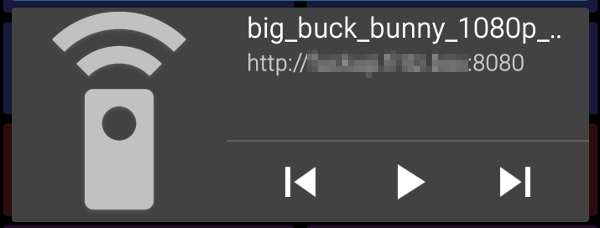
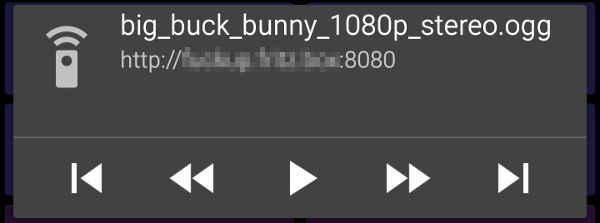
use range sliders for position and volume; only one table needed; fix delay display bug; updated screenshots

diff --git a/webui-page/webui.js b/webui-page/webui.js
@@ -2,6 +2,8 @@ var DEBUG = false;
 var loaded = false;
 var metadata = null;
 var filename = null;
+var blockPosSlider = false;
+var blockVolSlider = false;
 
 function send(command, param){
   DEBUG && console.log('Sending command: ' + command + ' - param: ' + param);
@@ -66,29 +68,72 @@ function getTitle() {
   }
 }
 
+function setPosSlider(duration, position) {
+  var slider = document.getElementById("mediaPosition");
+  var pos = document.getElementById("position");
+  slider.max = duration;
+  if (!window.blockPosSlider) {
+    slider.value = position;
+  }
+  pos.innerHTML = format_time(slider.value);
+}
+
+document.getElementById("mediaPosition").onchange = function() {
+  var slider = document.getElementById("mediaPosition");
+  send("set_position", slider.value);
+  window.blockPosSlider = false;
+}
+
+document.getElementById("mediaPosition").oninput = function() {
+  window.blockPosSlider = true;
+  var slider = document.getElementById("mediaPosition");
+  var pos = document.getElementById("position");
+  pos.innerHTML = format_time(slider.value);
+}
+
+function setVolumeSlider(volume) {
+  var slider = document.getElementById("mediaVolume");
+  var vol = document.getElementById("volume");
+  if (!window.blockVolSlider) {
+    slider.value = volume;
+  }
+  vol.innerHTML = slider.value + "%";
+}
+
+document.getElementById("mediaVolume").onchange = function() {
+  var slider = document.getElementById("mediaVolume");
+  send("set_volume", slider.value);
+  window.blockVolSlider = false;
+}
+
+document.getElementById("mediaVolume").oninput = function() {
+  window.blockVolSlider = true;
+  var slider = document.getElementById("mediaVolume");
+  var vol = document.getElementById("volume");
+  vol.innerHTML = slider.value + "%";
+}
+
 function status(bottom = false){
   var request = new XMLHttpRequest();
   request.open("get", "/status");
 
   request.onreadystatechange = function(){
-    if (request.readyState == 4 && request.status == 200){
+    if (request.readyState == 4 && request.status == 200) {
       var json = JSON.parse(request.responseText)
       window.metadata = json['metadata'];
       window.filename = json['file'];
       document.getElementById("filename").innerHTML = getTitle();
       document.getElementById("duration").innerHTML =
-        format_time(json['duration']);
-      document.getElementById("position").innerHTML =
-        format_time(json['position']);
+        '&nbsp;'+ format_time(json['duration']);
       document.getElementById("remaining").innerHTML =
-        format_time(json['remaining']);
+        "-" + format_time(json['remaining']);
       document.getElementById("sub-delay").innerHTML =
-        json['sub-delay'] * 1000 + ' ms';
+        json['sub-delay'];
       document.getElementById("audio-delay").innerHTML =
-        json['audio-delay'] * 1000 + ' ms';
-      document.getElementById("volume").innerHTML =
-        Math.floor(json['volume']) + "%";
+        json['audio-delay'];
       setPlayPause(json['pause']);
+      setPosSlider(json['duration'], json['position']);
+      setVolumeSlider(json['volume']);
       if ('mediaSession' in navigator) {
         setupNotification();
       }
@@ -154,4 +199,4 @@ function setupNotification() {
 }
 
 status();
-setInterval(function(){status();}, 2000);
+setInterval(function(){status();}, 1000);

diff --git a/webui-page/index.html b/webui-page/index.html
@@ -16,23 +16,8 @@
   </head>
   <body>
     <h1 id="filename">Title</h1>
-    <div class="table-one">
-      <table>
-        <tr>
-          <td>Duration:</td>
-          <td id="duration"></td>
-        </tr>
-        <tr>
-          <td>Position:</td>
-          <td id="position"></td>
-        </tr>
-        <tr>
-          <td>Remaining:</td>
-          <td id="remaining"></td>
-        </tr>
-      </table>
-    </div>
-    <div class="table-two">
+
+    <div class="table">
       <table class="two">
         <tr>
           <td>Sub-delay:</td>
@@ -42,11 +27,25 @@
           <td>Audio-delay:</td>
           <td id="audio-delay"></td>
         </tr>
-        <tr>
-          <td>Volume:</td>
-          <td id="volume"></td>
-        </tr>
       </table>
+    </div>
+
+    <div class="slidecontainer">
+      <input type="range" min="0" max="0" value="0" step="any" class="slider" id="mediaPosition">
+      <div class="sliderInfoContainer">
+        <div class="left" id="remaining"></div>
+        <div class="sliderCenter" id="position"></div>
+        <div class="right" id="duration"></div>
+      </div>
+    </div>
+
+    <div class="slidecontainer">
+      <input type="range" min="0" max="130" value="100" step="1" class="slider" id="mediaVolume">
+      <div class="sliderInfoContainer sliderVolume">
+        <div class="left sliderVolume"><i class="fas fa-volume-down"></i></div>
+        <div class="sliderCenter" id="volume"></div>
+        <div class="right"><i class="fas fa-volume-up"></i></div>
+      </div>
     </div>
 
     <div onClick="send('toggle_pause')" class="button play green">
@@ -74,17 +73,6 @@
     <div onClick="send('playlist_next')" class="button right blue">
       <div class="content icon-content">
         <i class="fas fa-fast-forward"></i>
-      </div>
-    </div>
-
-    <div onClick="send('volume', '-5')" class="button left red">
-      <div class="content icon-content">
-        <i class="fas fa-volume-down"></i>
-      </div>
-    </div>
-    <div onClick="send('volume', '5')" class="button right red">
-      <div class="content icon-content">
-        <i class="fas fa-volume-up"></i>
       </div>
     </div>
 

diff --git a/webui-page/webui.css b/webui-page/webui.css
@@ -96,12 +96,65 @@ table td {
   padding: 0 17px 0 0;
 }
 
-.table-one {
-    float: left;
-    width: 50%;
+.slidecontainer {
+  width: 100%;
 }
 
-.table-two   {
-    width: 50%;
-    float: right;
-}
+/* The slider itself */
+.slider {
+  -webkit-appearance: none;  /* Override default CSS styles */
+  appearance: none;
+  width: 100%;
+  height: 10px;
+  border-radius: 5px;
+  background: #d3d3d3;
+  outline: none;
+  opacity: 0.7;
+  -webkit-transition: .2s;
+  transition: opacity .2s;
+  margin-bottom: 15px;
+}
+
+.slider:hover {
+  opacity: 1;
+}
+
+/* The slider handle */
+.slider::-webkit-slider-thumb {
+  -webkit-appearance: none;
+  appearance: none;
+  width: 35px;
+  height: 35px;
+  border-radius: 50%;
+  background: #66f;
+  cursor: pointer; /* Cursor on hover */
+}
+
+.slider::-moz-range-thumb {
+  width: 35px;
+  height: 35px;
+  border-radius: 50%;
+  background: #66f;
+  cursor: pointer;
+}
+
+/* No idea if all of this works on IE, but if it does, hide tooltip. */
+.slider::-ms-tooltip {
+  display: none;
+}
+
+.sliderInfoContainer {
+  width: 100%;
+  text-align: center;
+  font-size: 4vmin;
+  margin-bottom: 20px;
+}
+
+.sliderCenter {
+  margin: 0 auto;
+  display: inline-block;
+}
+
+.sliderVolume {
+  margin-bottom: 20px;
+}
